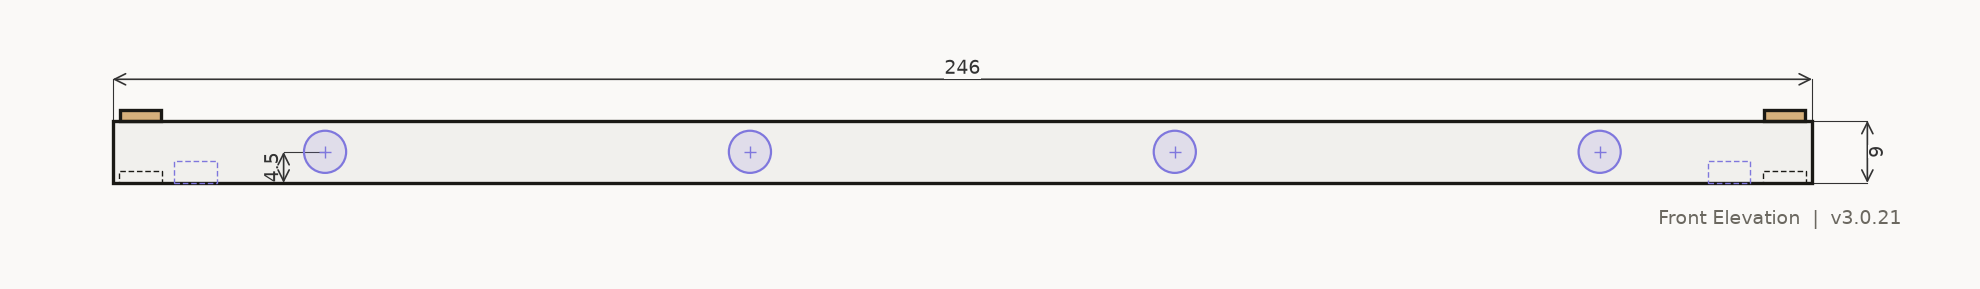
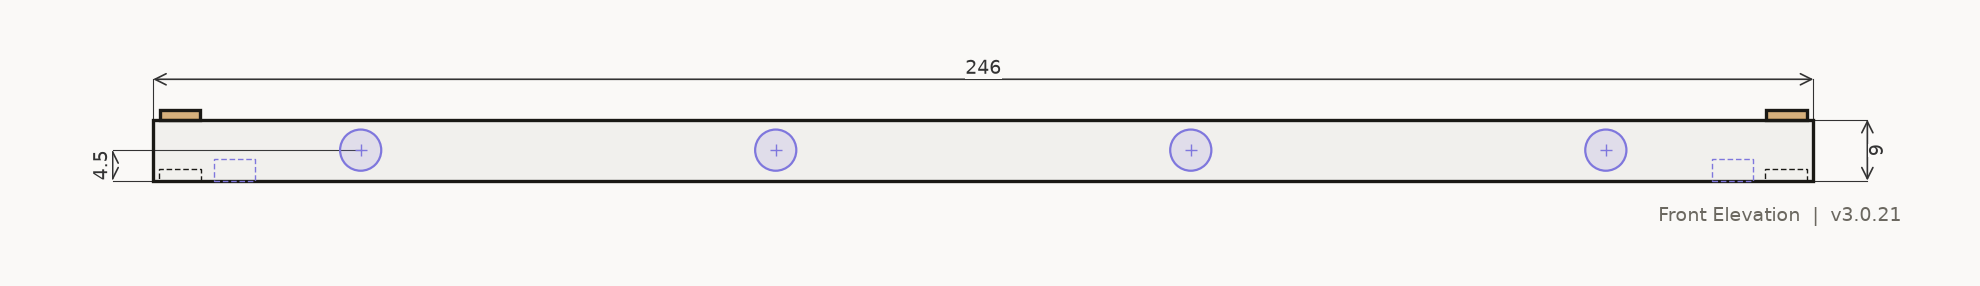
Move the front elevation's 4.5 dimension off the plate; cover plate-size collision (3.0.21)
The 7 pt "4.5" label crossed the plate's bottom outline. The dimension now
sits left of the plate with an extension line from the bore center. The
plate_x=50 test case now trips the inset check first, so a plate_x=70 case
keeps the collision path covered. Refs #54.

diff --git a/jig-plate.py b/jig-plate.py
@@ -724,8 +724,9 @@ Changelog
          only with side_branding; non-finite or overflowing numbers
          (10**400) raise ValueError naming the parameter; mag_inset_x and
          stack_inset_x >= plate_x / 2 are rejected; drawings: every label
-         >= 7 pt, narrower front elevation, outside arrows on the 4 mm
-         rib-inset dimension, outlined key swatches, opaque violet
+         >= 7 pt, narrower front elevation (its 4.5 dimension moved
+         outside the plate), outside arrows on the 4 mm rib-inset
+         dimension, outlined key swatches, opaque violet
          extension lines; README images link to their files and the
          Dimensions table has headers; the CLI prints one labeled line per
          mesh. Verified: STL triangle data (bytes 80+) byte-identical to
@@ -1080,10 +1081,7 @@ def _dim_h(ax, y, x0, x1, label, offset=0, fontsize=MIN_LABEL_PT, side="above",
             bbox=_DIM_LABEL_BBOX)
 
 
-def _dim_v(ax, x, y0, y1, label, offset=0, fontsize=MIN_LABEL_PT, side="right",
-           backdrop=True):
-    # backdrop=False where the label sits on the part itself and a BG box
-    # would erase the outline it is next to
+def _dim_v(ax, x, y0, y1, label, offset=0, fontsize=MIN_LABEL_PT, side="right"):
     ox = x + offset
     gap = 1.2 if side == "right" else -1.2
     ax.annotate("", xy=(ox, y0), xytext=(ox, y1),
@@ -1094,7 +1092,7 @@ def _dim_v(ax, x, y0, y1, label, offset=0, fontsize=MIN_LABEL_PT, side="right",
     ax.text(ox + gap, (y0 + y1) / 2, label, fontsize=fontsize,
             ha="left" if side == "right" else "right",
             va="center", color=DIM_COLOR, fontfamily="sans-serif",
-            rotation=90, zorder=7, bbox=_DIM_LABEL_BBOX if backdrop else None)
+            rotation=90, zorder=7, bbox=_DIM_LABEL_BBOX)
 
 
 def _fit_view(*axes, pad=0.05):
@@ -1328,10 +1326,12 @@ def _tech_front_elevation(out_path, geom):
     _dim_v(ax, geom.plate_x * S, 0, geom.plate_z * S,
            f"{geom.plate_z:.0f}", offset=8 * S)
 
-    # magnet bore center height (left of first bore)
+    # magnet bore center height, outside the plate (6 mm left of its end)
+    # with an extension line from the first bore's center, so the label
+    # touches no outline
     _dim_v(ax, geom.mag_xs[0] * S, 0, (geom.plate_z / 2) * S,
-           f"{geom.plate_z / 2:.1f}", offset=-6 * S, side="left",
-           backdrop=False)
+           f"{geom.plate_z / 2:.1f}", offset=-(geom.mag_xs[0] + 6) * S,
+           side="left")
 
     _title_block(ax, "Front Elevation")
 

diff --git a/tests/test_drawing_legibility.py b/tests/test_drawing_legibility.py
@@ -117,3 +117,16 @@ def test_readme_images_link_to_their_full_size_file():
 def test_readme_tables_have_real_headers():
     readme = (_ROOT / "README.md").read_text()
     assert "| | |" not in readme
+
+
+def test_bore_height_label_clears_the_plate_outline(figs):
+    """The 4.5 label sits outside the plate (left of x = 0), so it touches
+    no outline; at 7 pt it did not fit between the bottom edge and the
+    bore line inside the plate."""
+    fig = figs["front"]
+    ax = fig.axes[0]
+    fig.canvas.draw()
+    label = next(t for t in ax.texts if t.get_text() == "4.5")
+    box = label.get_window_extent(fig.canvas.get_renderer())
+    plate_x0 = ax.transData.transform((0, 0))[0]
+    assert box.x1 < plate_x0

diff --git a/tests/test_jig_plate_base.py b/tests/test_jig_plate_base.py
@@ -292,6 +292,9 @@ class TestParameterValidation:
         # _MIN_WALL of each other, or actually overlap)
         # the default mag_inset_x (30.75) is past half of a 50 mm plate
         (dict(plate_x=50.0), "less than half"),
+        # insets below half the plate, but the plate is too small for the
+        # four bores between them (the collision path for plate size)
+        (dict(plate_x=70.0), "comes within"),
         (dict(mag_count_x=40), "comes within"),
         (dict(mag_inset_x=12.0), "comes within"),
         (dict(bottom_mag_inset_x=5.0), "comes within"),

diff --git a/CHANGELOG.md b/CHANGELOG.md
@@ -45,7 +45,9 @@ unchanged from 3.0.11 (triangle data byte-identical).
   (it used to print `stack coupon: True 8.09 cm3 [...]`) (#54).
 - All four drawings use at least 7 pt for every label, the front elevation
   is a narrower figure so its labels read larger at README width, the 4 mm
-  rib-inset dimension no longer collapses into a bowtie, the key swatches
+  rib-inset dimension no longer collapses into a bowtie, the front
+  elevation's 4.5 bore-height dimension sits outside the plate so its label
+  touches no outline, the key swatches
   have an outline, and the violet extension lines on the top plan are no
   longer faded (#54).
 - Each README image links to its full-size file, and the Dimensions table
